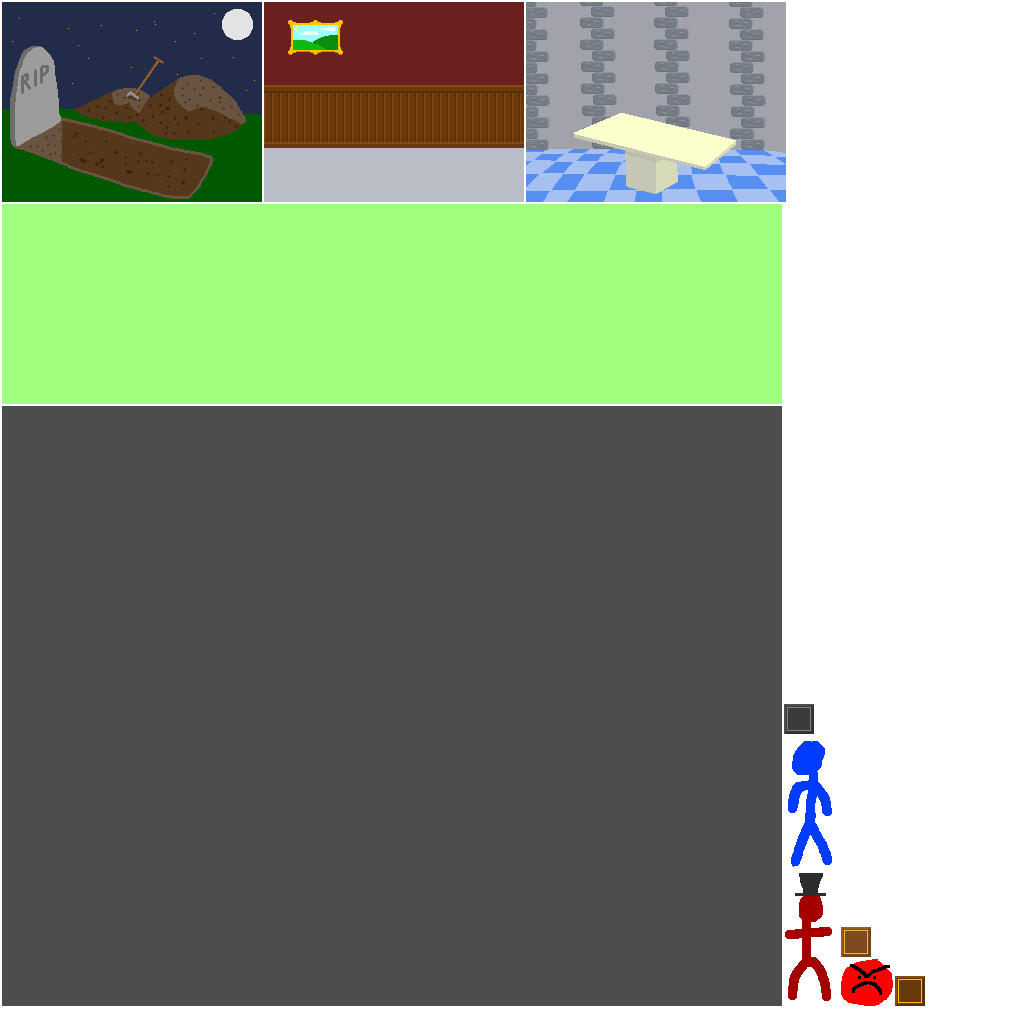
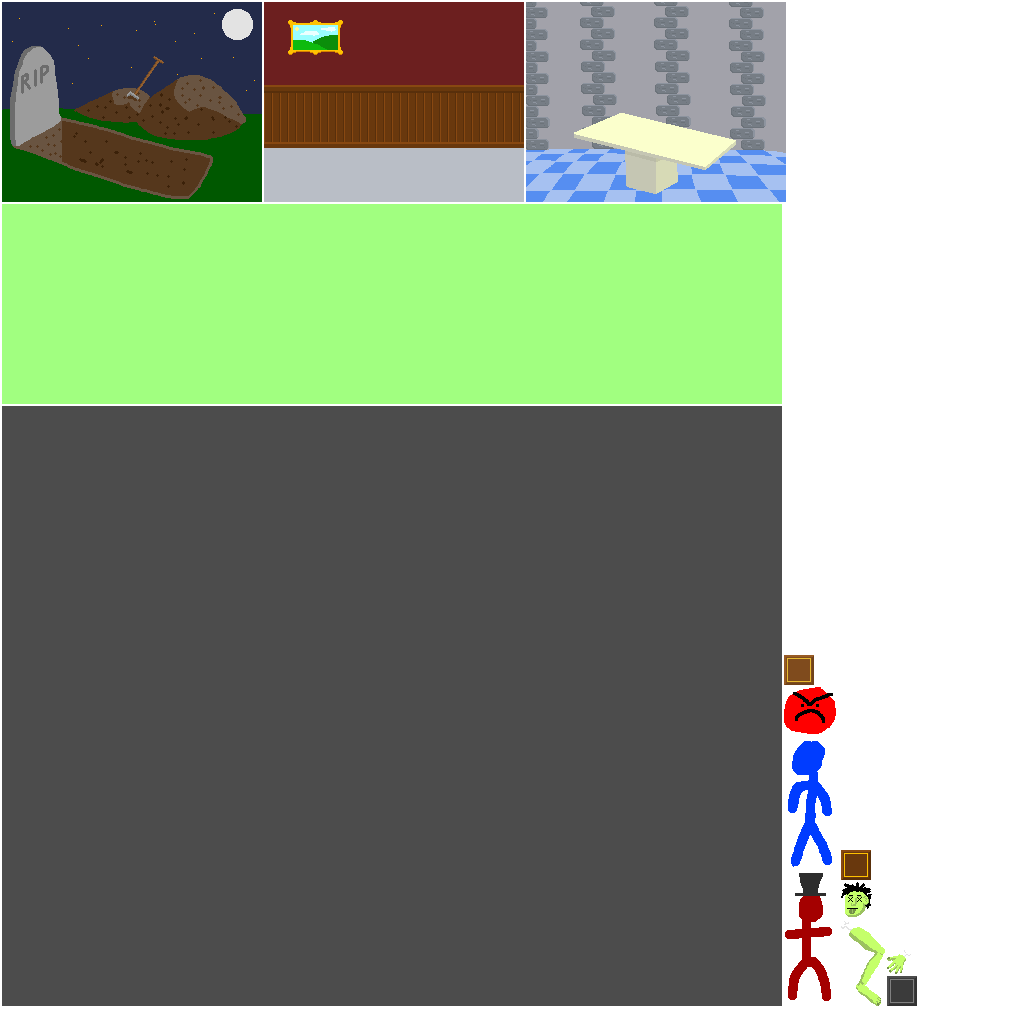
Flying body parts! :D

Changed region(s): [[0.8125, 0.8125, 0.9062, 1.0], [0.75, 0.625, 0.8125, 0.7188]]

diff --git a/core/src/uk/co/samatkins/frankenstein/PlayScene.java b/core/src/uk/co/samatkins/frankenstein/PlayScene.java
@@ -17,6 +17,9 @@ public class PlayScene extends Scene {
 	private int diggers, diggerMonsters;
 	private float diggingCounter;
 	private float diggingDelay;
+	private final TextureRegion[] bodyPartImages;
+	private int bodyPartIndex;
+	private final Group bodyPartsGroup;
 
 	private final TextureRegion surgeryBackground;
 	private int surgeons, surgeonMonsters;
@@ -144,6 +147,13 @@ public class PlayScene extends Scene {
 
 		diggingBackground = game.skin.getRegion("graves");
 		diggingForeground = game.skin.getRegion("graves-foreground");
+		bodyPartImages = new TextureRegion[] {
+			game.skin.getRegion("head"),
+			game.skin.getRegion("hand"),
+			game.skin.getRegion("leg"),
+		};
+		bodyPartIndex = 0;
+		bodyPartsGroup = new Group();
 		diggers = 0;
 		diggerMonsters = 0;
 		diggingCounter = 0;
@@ -369,7 +379,13 @@ public class PlayScene extends Scene {
 			diggingCounter -= diggingDelay;
 			bodyPartCount++;
 			outragePercent += 0.003f;
-			// TODO: Animate a +1 body part
+
+			// Animate a +1 body part
+			int bodyPartImage = bodyPartIndex;
+			bodyPartIndex = (bodyPartIndex + 1) % bodyPartImages.length;
+			bodyPartsGroup.addActor(new BodyPart(bodyPartImages[bodyPartImage], 100, 400,
+				MathUtils.random(-30f, 300f), MathUtils.random(300f, 400f), -98f, 2f,
+				MathUtils.random(360f), MathUtils.random(-360f, 360f) ));
 		}
 
 		// Stitching
@@ -435,6 +451,8 @@ public class PlayScene extends Scene {
 		}
 
 		updateLabels();
+
+		bodyPartsGroup.act(delta);
 	}
 
 	void updateLabels() {
@@ -464,7 +482,7 @@ public class PlayScene extends Scene {
 
 		// Digging
 		batch.draw(diggingBackground, 0, 400);
-		// TODO: Flying body parts
+		bodyPartsGroup.draw(batch, 1f);	// Flying body parts
 		batch.draw(diggingForeground, 0, 400);
 
 		batch.draw(surgeryBackground, 260, 400);

diff --git a/core/src/uk/co/samatkins/frankenstein/BodyPart.java b/core/src/uk/co/samatkins/frankenstein/BodyPart.java
@@ -1,0 +1,40 @@
+package uk.co.samatkins.frankenstein;
+
+import com.badlogic.gdx.graphics.g2d.TextureRegion;
+import com.badlogic.gdx.scenes.scene2d.ui.Image;
+import com.badlogic.gdx.utils.Align;
+
+public class BodyPart extends Image {
+	private float vX;
+	private float vY;
+	private final float gravity;
+	private final float totalLife;
+	private final float deltaRotation;
+	private float life;
+
+	public BodyPart(TextureRegion region, float x, float y, float vX, float vY, float gravity, float lifetime, float rotation, float deltaRotation) {
+		super(region);
+		setPosition(x, y, Align.center);
+		setRotation(rotation);
+		setOrigin(getImageWidth()/2f, getImageHeight()/2f);
+		this.vX = vX;
+		this.vY = vY;
+		this.gravity = gravity;
+		this.totalLife = lifetime;
+		this.life = 0;
+		this.deltaRotation = 0;//deltaRotation;
+	}
+
+	@Override
+	public void act(float delta) {
+		super.act(delta);
+		vY += gravity * delta;
+		setPosition(getX() + vX * delta, getY() + vY * delta);
+		rotateBy(deltaRotation * delta);
+
+		life += delta;
+		if (life > totalLife) {
+			remove();
+		}
+	}
+}
